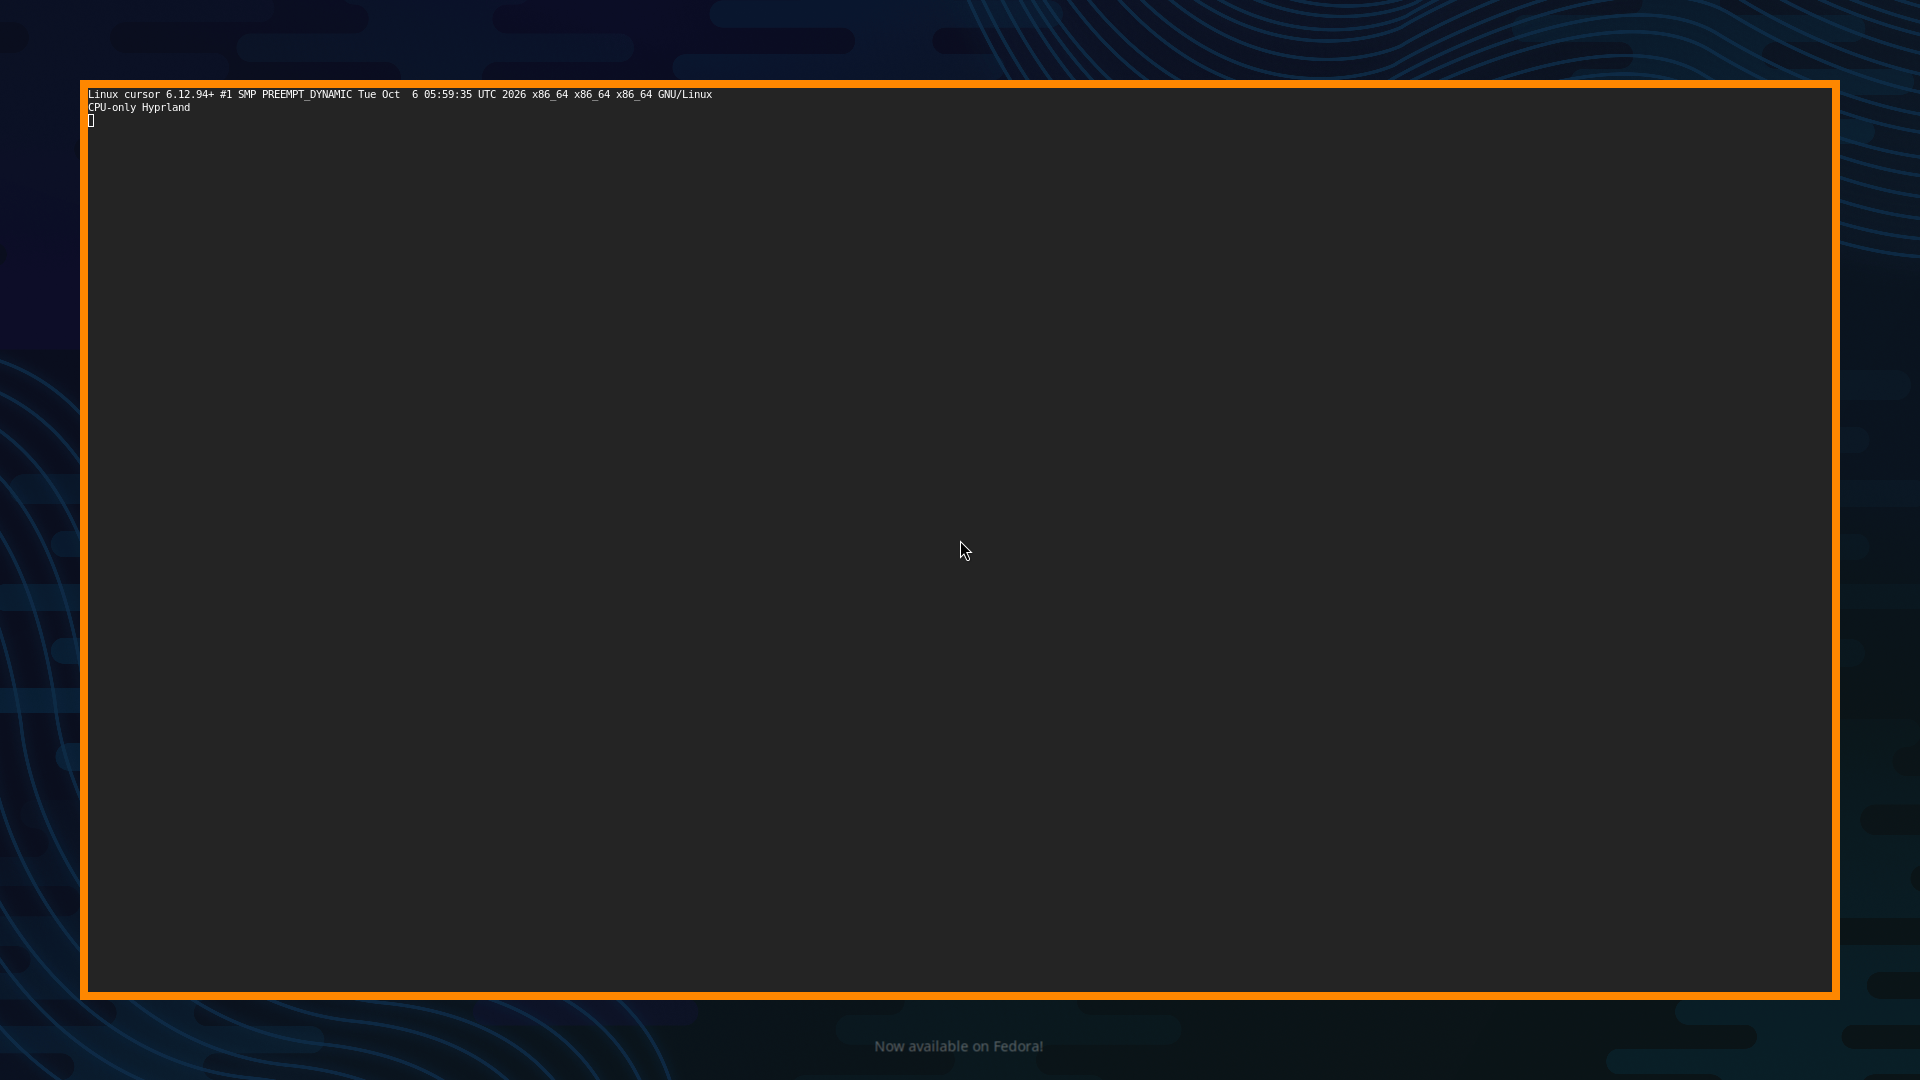
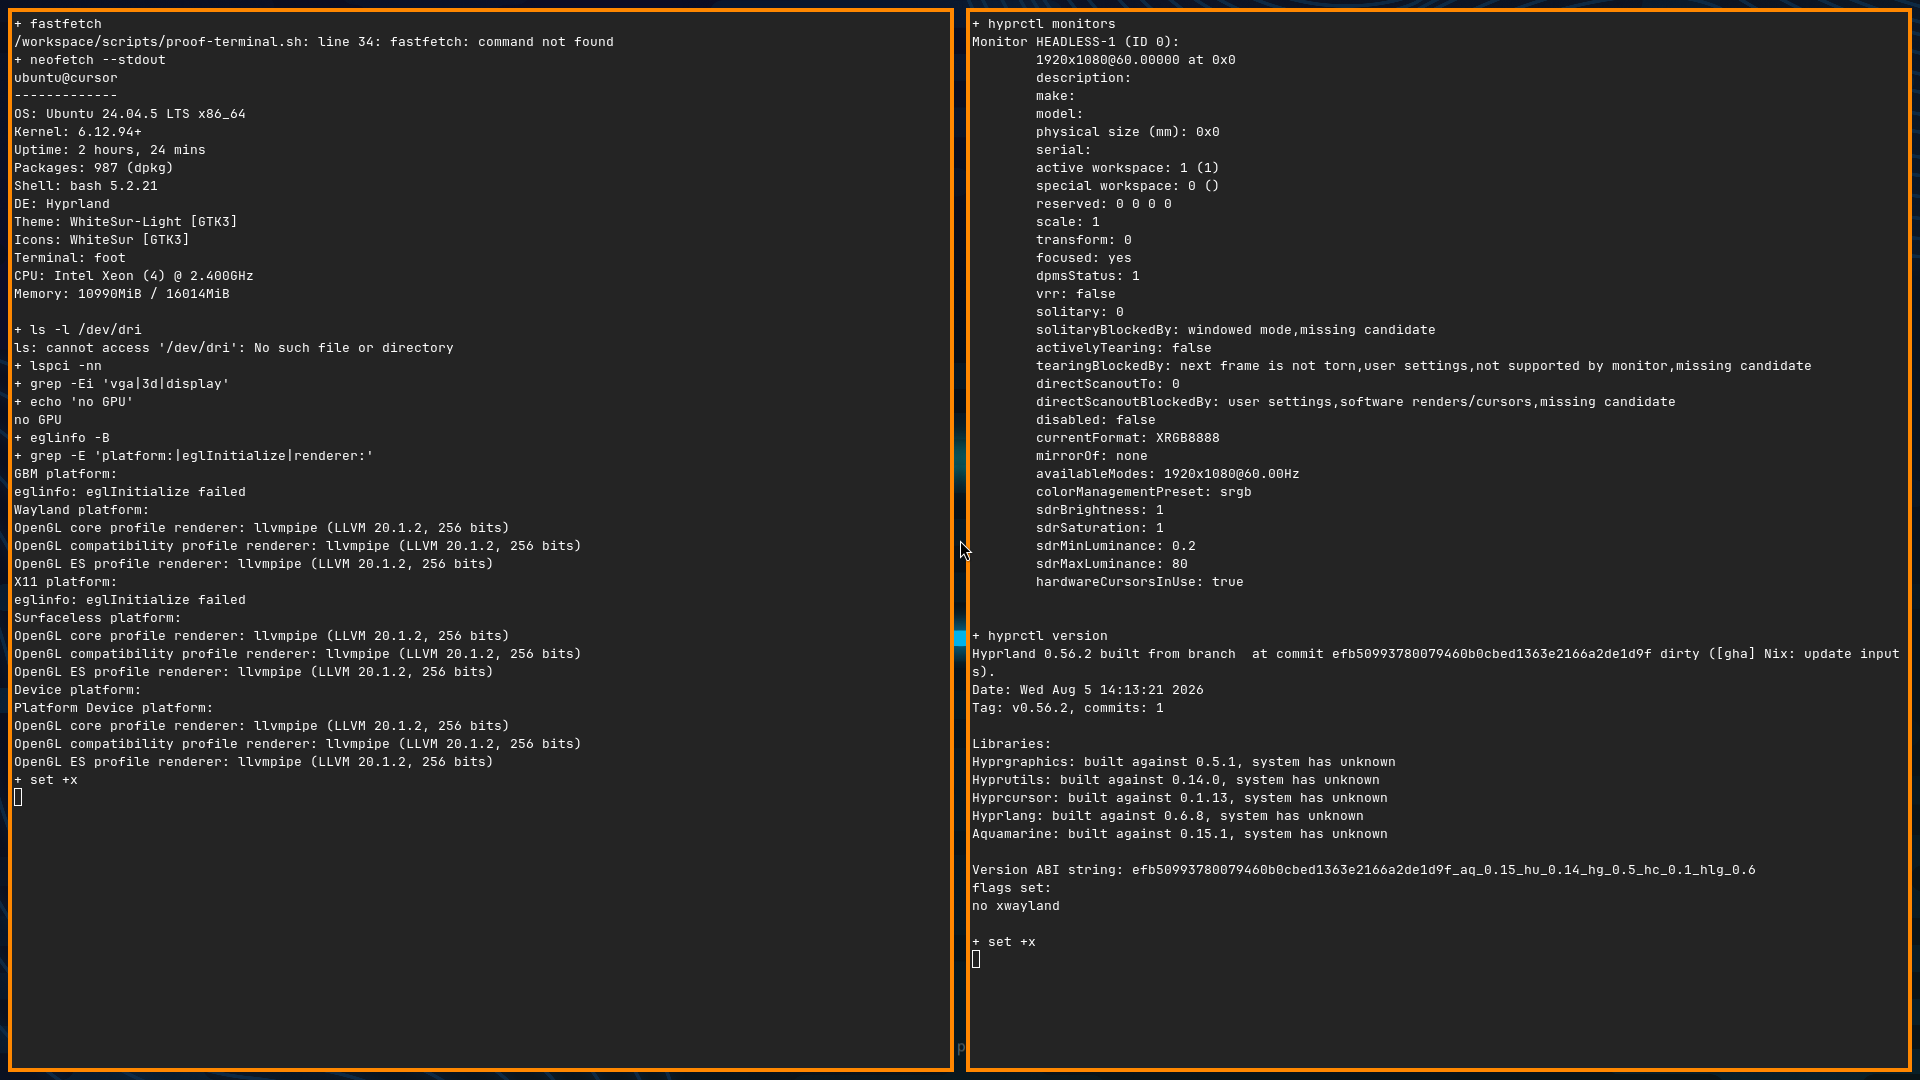
Record the grim shot of neofetch and hyprctl on HEADLESS-1.
The frame is the output of scripts/proof-terminal.sh. The README lists the commands that pane ran.

diff --git a/README.md b/README.md
@@ -12,7 +12,7 @@ Three proofs are in `proof/`.
 
 - `proof/hyprland-headless.png` is the empty desktop.
 - `proof/hyprland-headless-client.png` is an xdg-shell window painted with `wl_shm`.
-- `proof/hyprland-headless-foot.png` is foot 1.16.2 showing `uname -a` and the line `CPU-only Hyprland`.
+- `proof/hyprland-headless-foot.png` is foot 1.16.2. The left pane runs `neofetch --stdout` after `fastfetch` fails, then `ls -l /dev/dri`, an `lspci` GPU query, and a filtered `eglinfo -B`. The right pane runs `hyprctl monitors` and `hyprctl version`. The capture script is [scripts/proof-terminal.sh](scripts/proof-terminal.sh).
 
 Background is in [docs/PRIOR-ART.md](docs/PRIOR-ART.md) and [docs/FEASIBILITY.md](docs/FEASIBILITY.md). A small surfaceless EGL probe is in [experiments/](experiments/).
 
@@ -26,13 +26,31 @@ Hyprland is `efb50993780079460b0cbed1363e2166a2de1d9f`. Aquamarine is `f31c47a1b
 ./scripts/build.sh
 ./scripts/run-headless.sh proof/hyprland-headless.png
 ./scripts/run-headless.sh --client
-./scripts/run-headless.sh --terminal
+./scripts/proof-terminal.sh
 ```
 
-`run-headless.sh` exits if `/dev/dri` exists. It sets `LIBGL_ALWAYS_SOFTWARE=1` and `GALLIUM_DRIVER=llvmpipe`, starts Hyprland through `start-hyprland` with `scripts/headless.lua`, waits for a Wayland socket, and runs `grim -o HEADLESS-1`. `--client` builds `clients/shm-window.c` and waits until `hyprctl clients` lists `shm-window`. `--terminal` runs the system `foot` package with `uname -a` and the line `CPU-only Hyprland`, then waits until `hyprctl clients` lists `foot`.
+`run-headless.sh --terminal` runs `scripts/proof-terminal.sh`. That script is what produced `proof/hyprland-headless-foot.png`.
+
+`run-headless.sh` exits if `/dev/dri` exists. It sets `LIBGL_ALWAYS_SOFTWARE=1` and `GALLIUM_DRIVER=llvmpipe`, starts Hyprland through `start-hyprland` with `scripts/headless.lua`, waits for a Wayland socket, and runs `grim -o HEADLESS-1`. `--client` builds `clients/shm-window.c` and waits until `hyprctl clients` lists `shm-window`.
+
+`proof-terminal.sh` uses the same environment and a tighter gap setting so two foot windows fit in the 1920x1080 frame at 13px. It waits until each pane is tall enough, then runs the commands below. Bash `set -x` prints the commands in the shot. Install `foot`, `neofetch`, `pciutils`, and `mesa-utils` separately. `fastfetch` is not in Ubuntu 24.04 apt, so the left pane shows `fastfetch: command not found` and then `neofetch --stdout`.
+
+Left pane:
+
+- `fastfetch`, which errors, then `neofetch --stdout`
+- `ls -l /dev/dri`, which errors because the directory is absent
+- `lspci -nn | grep -Ei 'vga|3d|display' || echo 'no GPU'`
+- `eglinfo -B 2>&1 | grep -E 'platform:|eglInitialize|renderer:'`
+
+On this VM the grep keeps the platform headers, the GBM and X11 `eglInitialize failed` lines, and the renderer lines. Wayland, Surfaceless, and the device platform report `llvmpipe (LLVM 20.1.2, 256 bits)`. `eglinfo` itself exits non-zero when a platform fails. The script turns off `pipefail` for that pipeline so a successful grep is not reported as a miss.
+
+Right pane:
+
+- `hyprctl monitors`, including `HEADLESS-1`, `1920x1080@60`, and `currentFormat: XRGB8888`
+- `hyprctl version`
 
 With no DRM fd the compositor does not advertise `zwp_linux_dmabuf_v1` or `wl_drm`. Foot's buffers in the proof were `wl_shm`.
 
 ## Limits
 
-There is no pixman renderer and no udmabuf path. Xwayland is configured off, and the Xwayland sources still compile. Input is untested. The monitor rule asks for 1920x1080 at 60 Hz. That number is the mode request, not a measured frame rate. During screencopy the log repeats `ensureBufferPresent` many times. The captured frames were still intact. `foot` is not built by `scripts/build.sh`. Install it separately.
+There is no pixman renderer and no udmabuf path. Xwayland is configured off, and the Xwayland sources still compile. Input is untested. The monitor rule asks for 1920x1080 at 60 Hz. That number is the mode request, not a measured frame rate. During screencopy the log repeats `ensureBufferPresent` many times. The captured frames were still intact. `foot` is not built by `scripts/build.sh`. The foot proof also needs `neofetch`, `pciutils`, and `mesa-utils` on the host.
